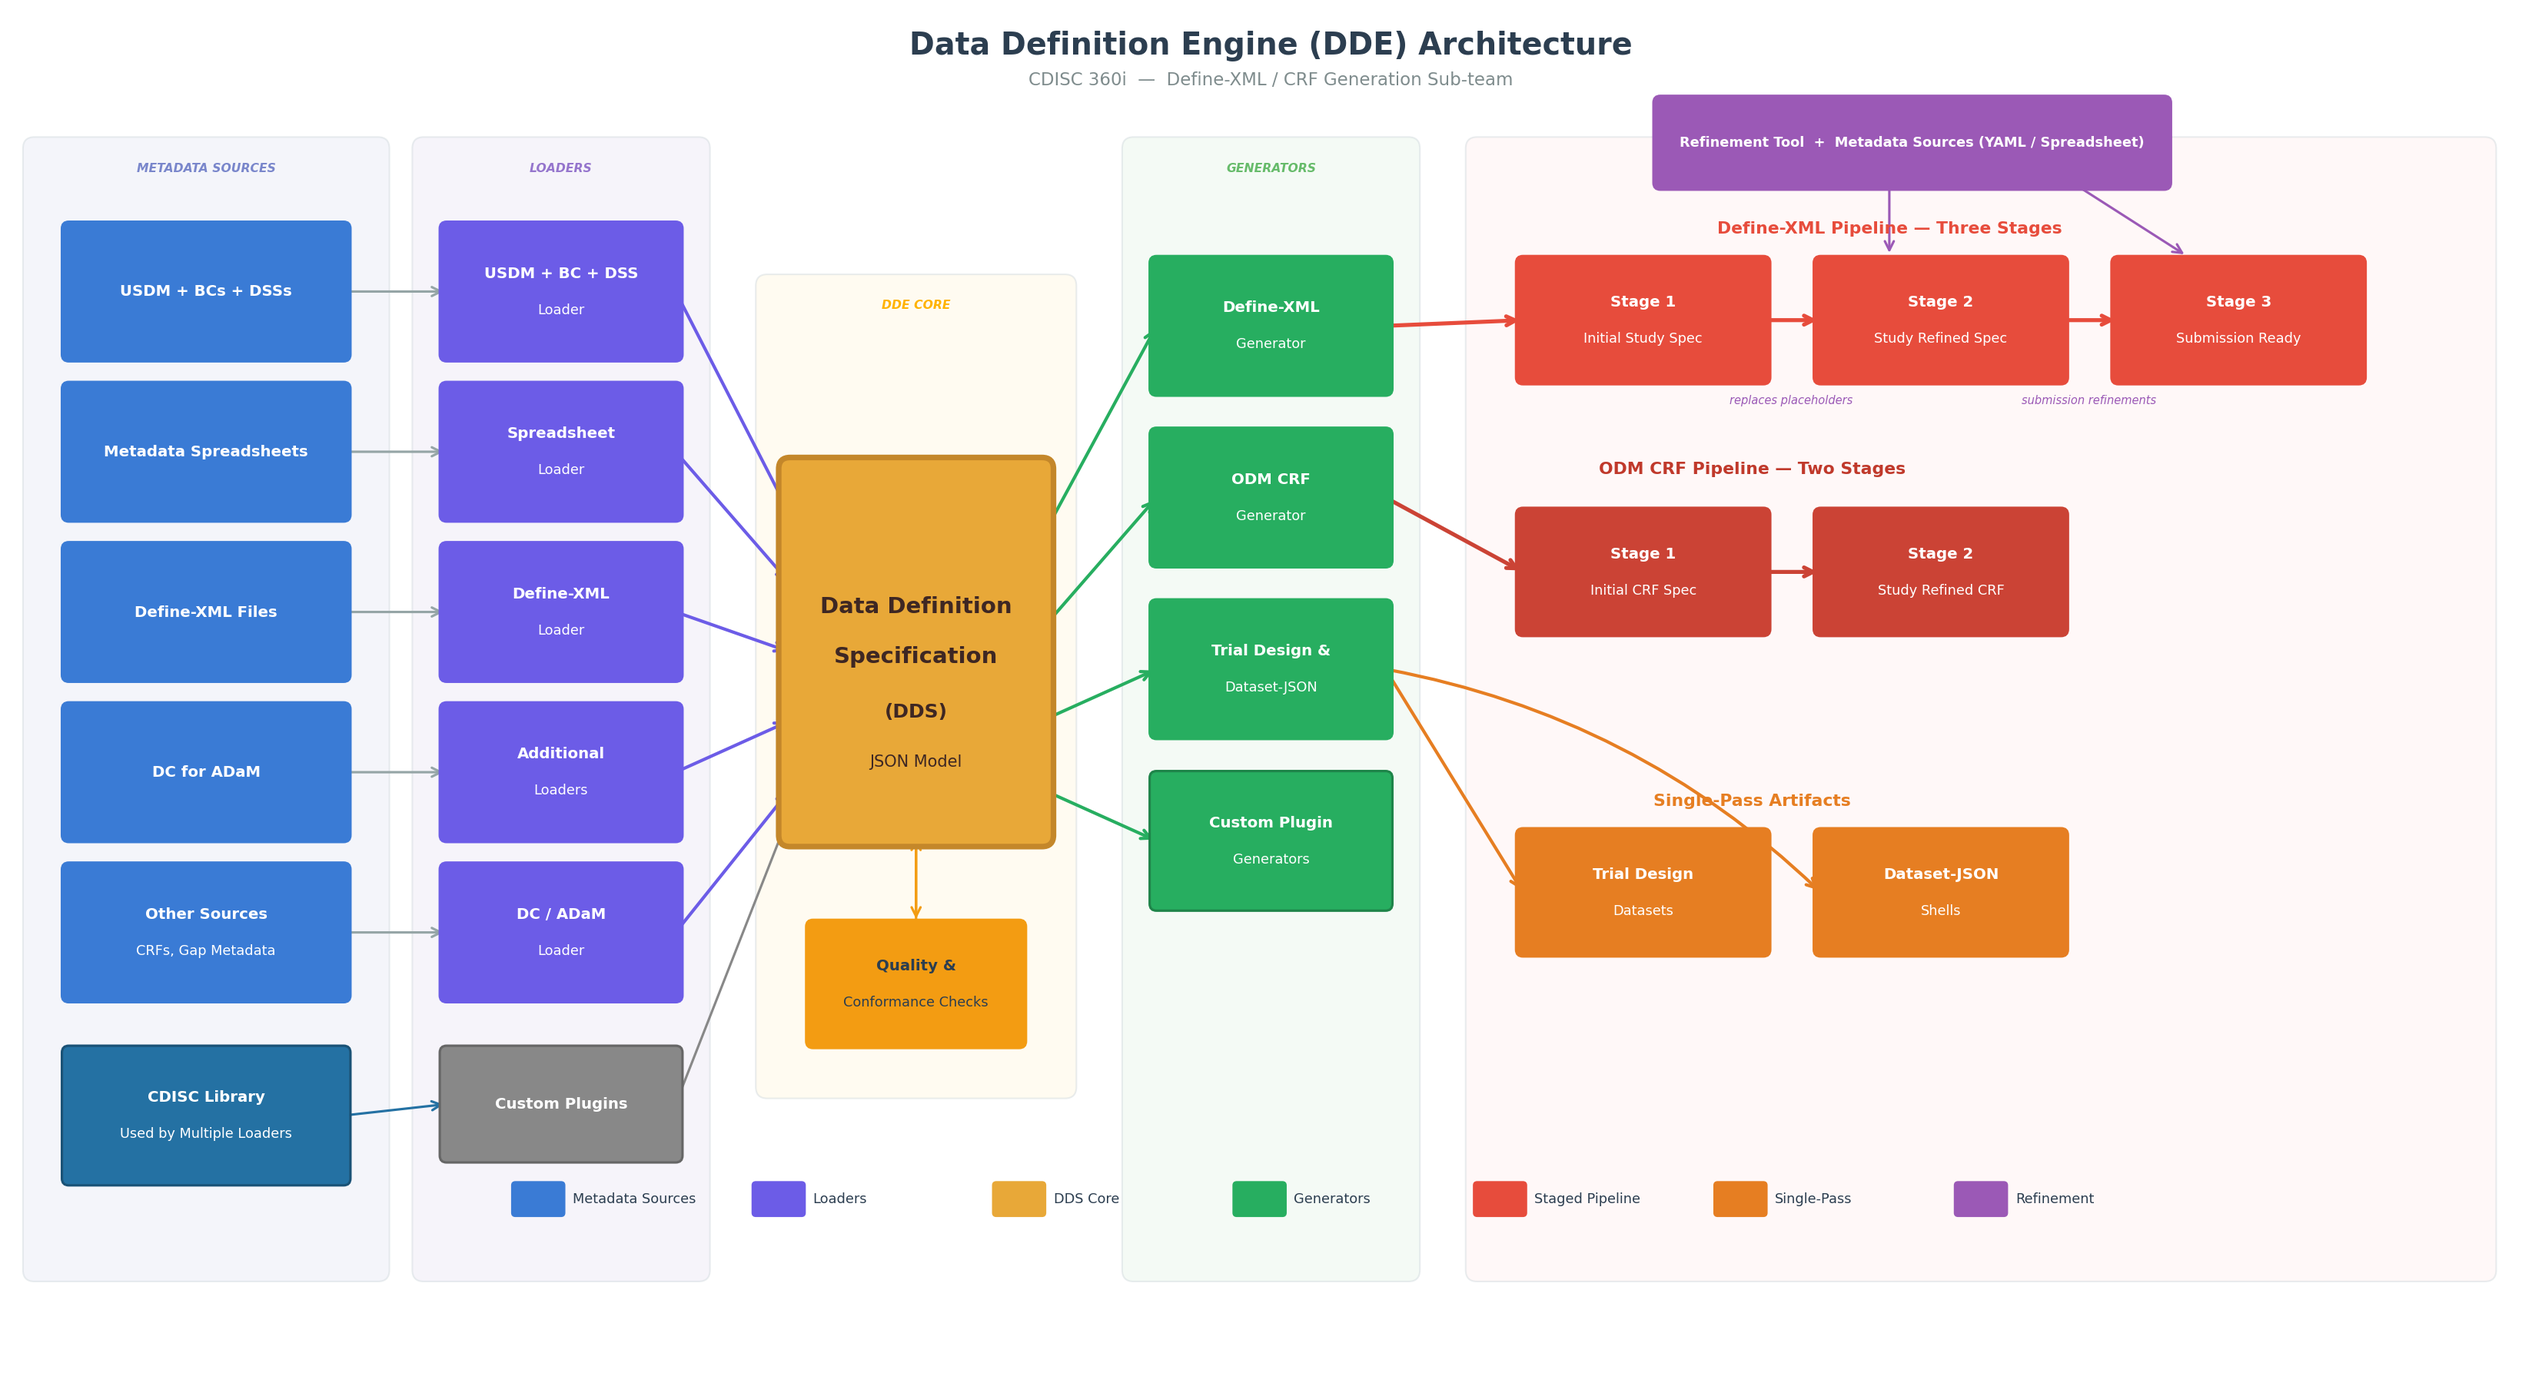
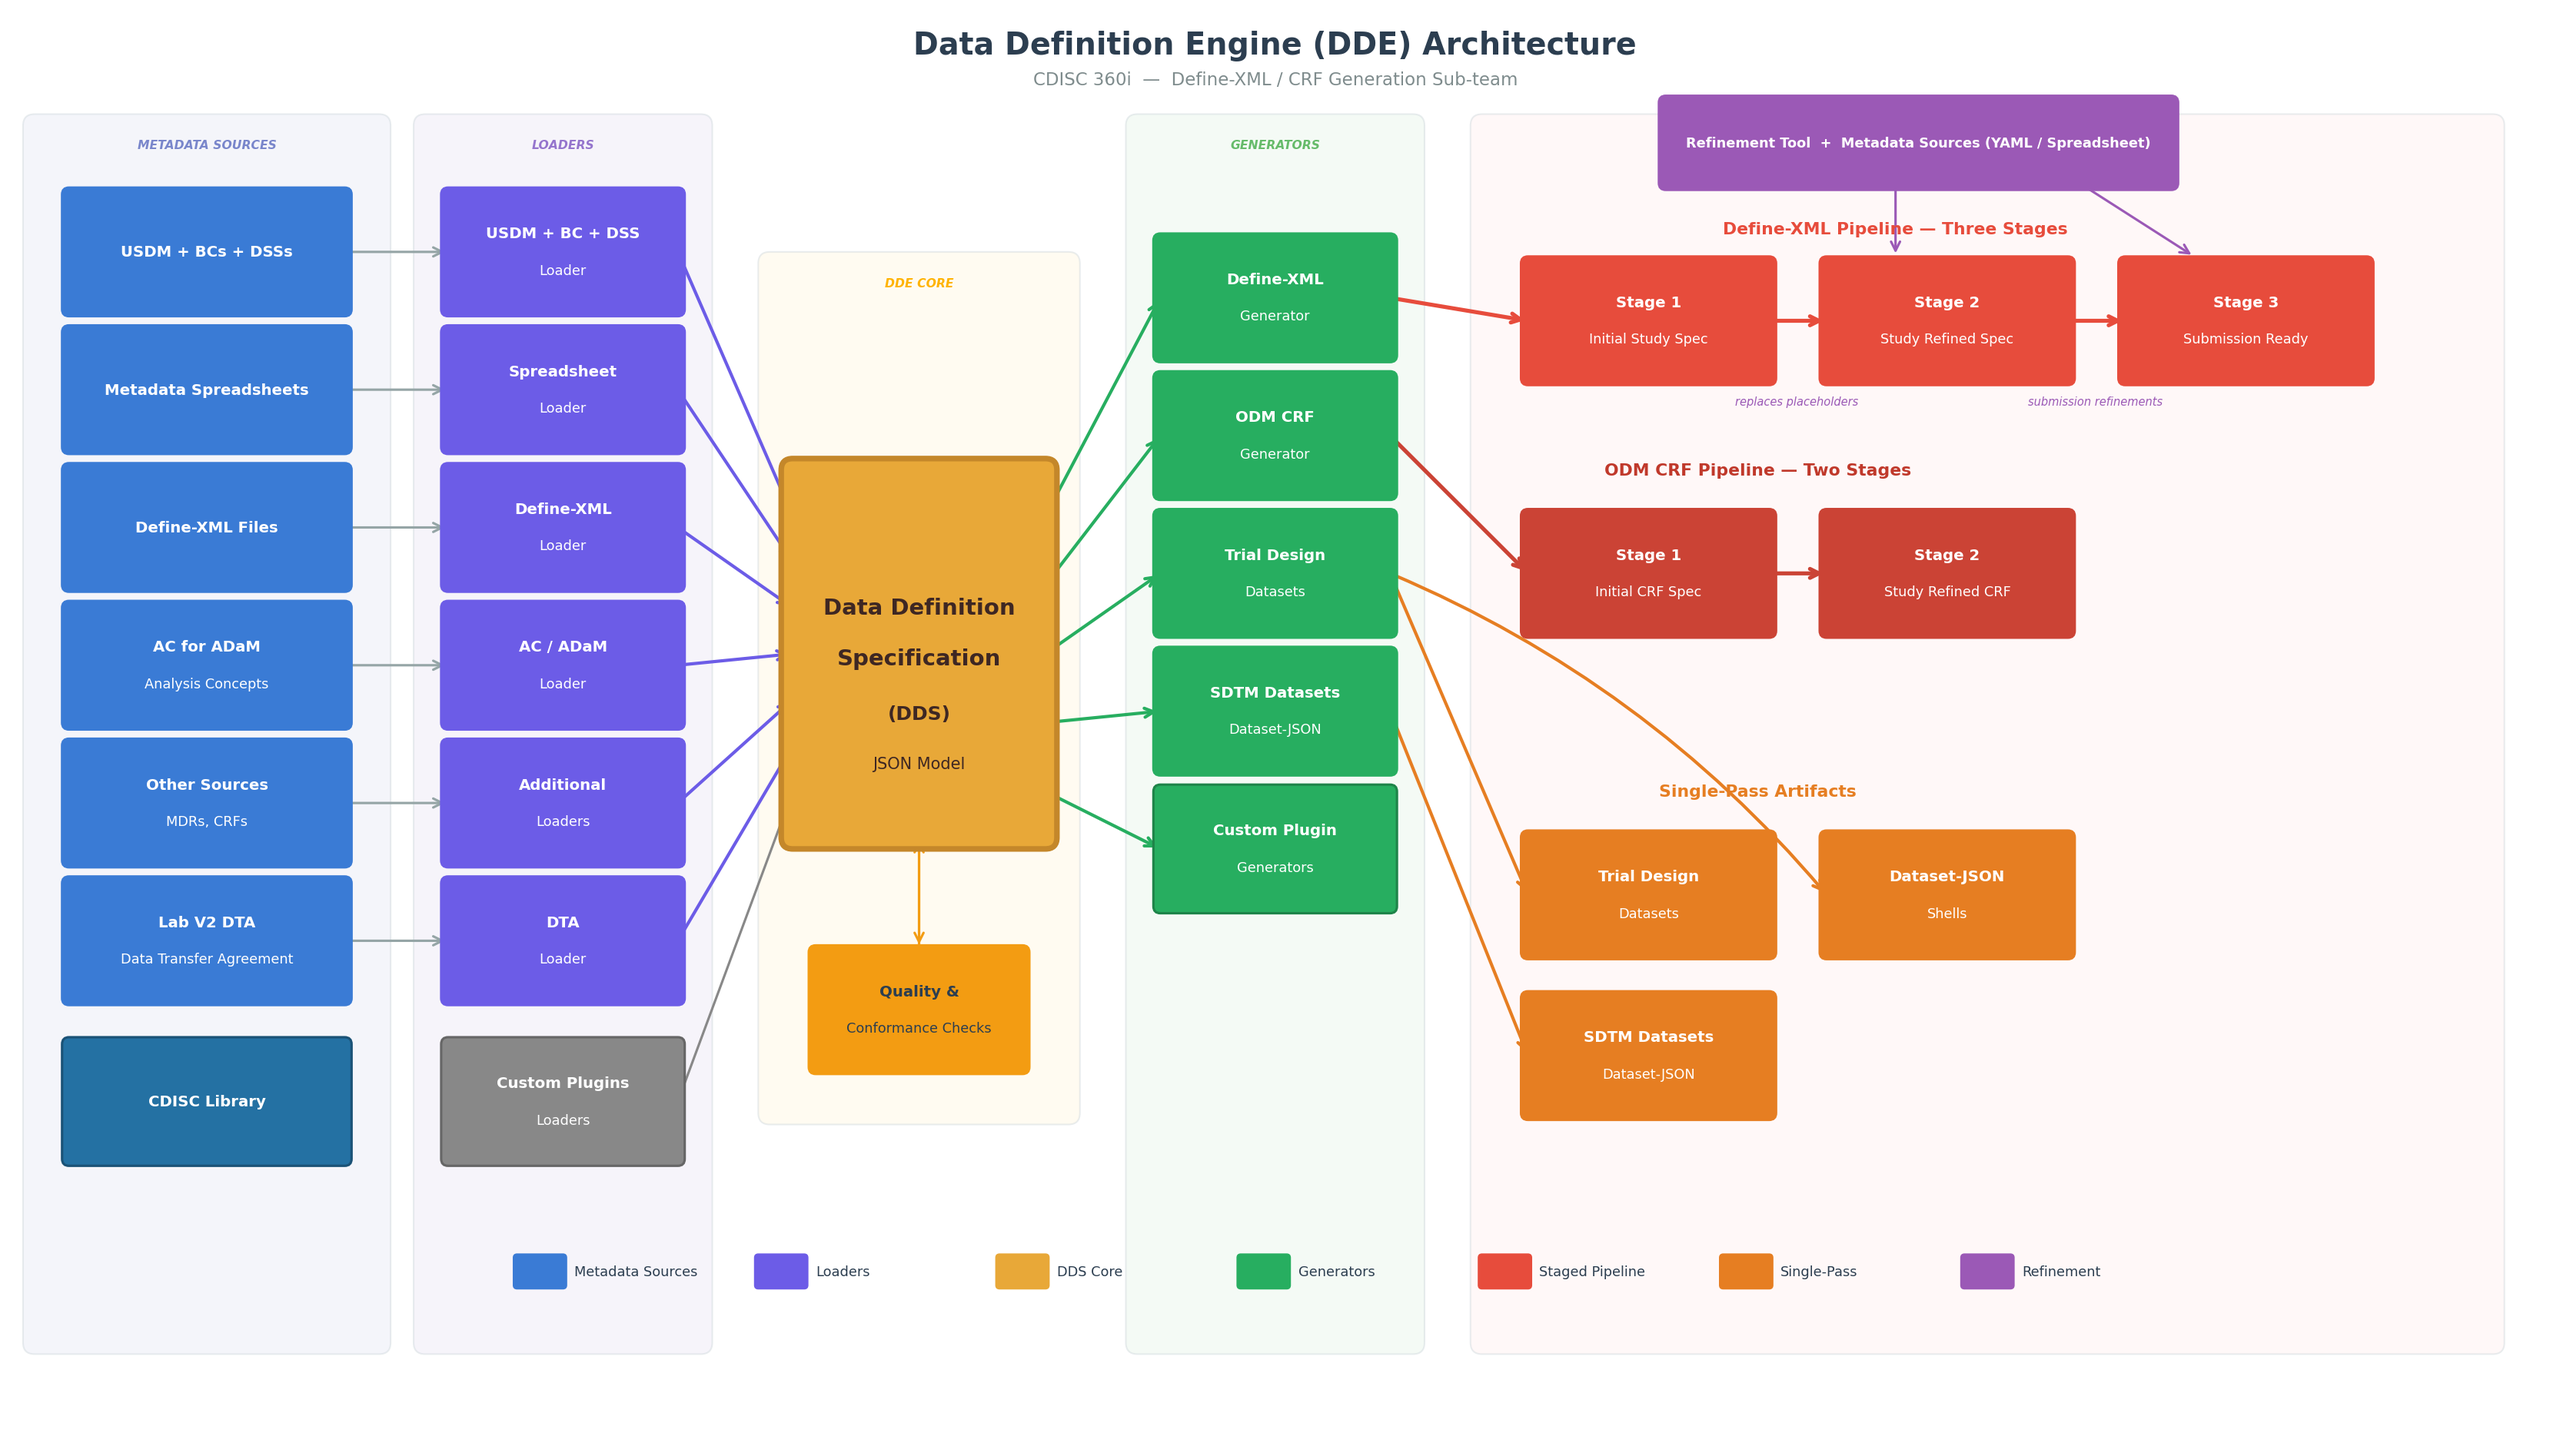
updates interchange slides

diff --git a/documents/presentations/2026-eu-interchange-define-xml-automation.md b/documents/presentations/2026-eu-interchange-define-xml-automation.md
@@ -7,27 +7,54 @@
 2. ODM-based CRF generation
 3. Dataset Shell generation
 4. Trial Design datasets generation
-5. Generating SDTM datasets from DTAs
+5. Generating SDTM datasets from Lab DTAs
+6. Test a new draft model: Data Definition Specification (DDS)
 
-This presentation focuses on SDTM Define-XML generation, but most of the principles covered here apply to our other deliverables
+This presentation focuses on SDTM Define-XML generation.
+
+Speaker Notes:
+While this presentation focuses on SDTM Define-XML generation, most of the principles covered here apply to our other 
+deliverables. Instead of giving an overview of the 360i program or even an overview of our team's work, I will go into 
+a bit more details on the SDTM Define-XML generation deliverable since we're further along on this one and it happens 
+to be the feature that I've worked the most on.
 
 ---
 
-## What Are We Trying to Accomplish
+## What Are We Trying to Accomplish?
 1. Create a solution that maximizes automation and minimizes manually created metadata to generate Define-XML
 2. Support generating Define-XML from the study design; this uses USDM -> Biomedical Concepts -> SDTM Dataset Specializations
-3. Support using multiple sources of metadata to generate the Define-XML, such as existing metadata spreadsheets
+3. Support using multiple sources of metadata to generate the Define-XML, such as existing metadata spreadsheets or MDRs
 4. Create a new Data Definition Specification model to support metadata-driven automation
 5. Identify and resolve metadata/standards gaps impeding automation
+
+Speaker Notes:
+This slide focuses on SDTM Define-XML generation, as noted previously. Our main focus is on creating a new way of 
+automating Define-XML generation using USDM + BCs + DSSs. We'll use this same approach for ODM CRF generation,
+but will use CRF Specializations instead of SDTM DSSs.
+
+This is an innovative project. We're working towards making a leap forward, and to do this we've had to learn several 
+new standards and models. So, this project has, at times, been an exploratory one where we have had to learn new
+standards and models without any formal training. We're doing new things, and this calls for a pioneering spirit and
+a willingness to deal with content and processes that are rough and incomplete.
+
+Even supporting today's state-of-the-art metadata sources, such as existing metadata spreadsheets and MDRs requires
+innovation because we are loading this content into the new DDS model.
+
+Identifying gaps in the standards and pioneering new ways of working are what this project is all about.
 
 ---
 
 ## Why This Matters
 1. Bridging future methods of generating Define-XML with current ways of working
-2. Open-source where ongoing development and maintenance is performed by a team of experts
-3. Open-source means the application can be used without paying a license fee
-4. Higher quality Define-XMLs generated more efficiently
-5. Realizing the benefits of your investment in standards via metadata-driven automation
+2. Open-source where a team of experts performs ongoing development and maintenance
+3. Higher quality Define-XMLs generated more efficiently
+4. Realizing the benefits of your investment in standards via metadata-driven automation
+
+Speaker Notes:
+We are demonstrating new ways of generating study artifacts, like Define-XML, starting from the study design metadata.
+We seek to use this method to maximize automation. This makes it easier to generate a Define-XML at the very beginning
+of a study so that it can be used as a specification. It also makes it easier to re-generate the Define-XML 
+specification when the study design is ammended.
 
 ---
 
@@ -41,6 +68,14 @@ This presentation focuses on SDTM Define-XML generation, but most of the princip
 4. Automation Opportunity
 	- Generating Define-XML from a consistent metadata backbone reduces errors, streamlines updates, and scales across projects.
 
+Speaker Notes:
+I think most of us would agree that the current process is inefficient and error-prone. It's too manual. Define-XML
+generation often occurs at the end of the study and is not available as a specification. With the availability of new 
+standards and models, we believe we can increase the automation and quality of the Define-XML generation process. 
+Every 1.32 studies go through protocol amendments. Our existing manual processes are not only error-prone, but 
+unsustainable and expensive. Driving Define-XML generation automation from the study design should provide major quality
+and efficiency benefits.
+
 ---
 
 ## The Project: The Data Definition Engine (DDE)
@@ -48,10 +83,49 @@ This presentation focuses on SDTM Define-XML generation, but most of the princip
 
 1. Metadata Sources
 2. Loaders
-3. The Data Definition Specification model
+3. The Data Definition Specification (DDS) model
 4. Generators
 5. Study Artifacts
 6. A Refinement Pipeline
+
+Speaker Notes:
+This slide represents the key ideas I want to highlight in this presentation. It shows the Data Definition Engine
+(DDE) architecture and highlights the components needed to achieve our goals.
+
+TODO: Expand on each part of the architecture to understand the role each component plays in the process. 
+
+---
+
+## DDE: Generating Define-XML from the Study Design
+![dde_define_xml_slide.png](dde_define_xml_slide.png)
+
+1. Metadata Sources
+   - USDM + BCs + DSSs
+   - CDISC Library
+2. Loaders
+   - USDM + BCs + DSSs
+3. DDS
+   - JSON model
+4. Generators
+   - Define-XML
+5. A Refinement Pipeline
+   - Define-XML with PLACEHOLDERS
+   - Study level refinement of Define-XML
+
+Speaker Notes:
+This slides focuses on one of our main 360i deliverables: generating Define-XML from a USDM-based study design. The
+Define-XML generated can be used as an initial specification for the study. Since it's generated from the study design,
+it can be be generated in the very beginning of the study. It can be updated as the study design is amended. These are
+some process benefits that come along with the improvements in automation.
+
+This approach retrieves the Biomedical Concepts from the USDM schedule of activities. It then uses the CDISC Library API
+to look up the DSSs for each BC. Using this information, we are able to populate much of the Define-XML metadata,
+including bits that are considered more challenging, like Value Level Metadata. However, there are quite a few gaps
+in the metadata needed to full generate a conformant Define-XML. These tend to be basic, study-level content like 
+KeySeuqence (which variables are keys), Length, whether a variable is mandatory or not, and so on. During the initial
+Define-XML generation, we use placeholders for these metadata items. Then, in the refinement pipeline those placeholders
+are with study-level metadata. The final step in that pipeline is performed at the end of the study to make any changes
+or additions needed to make this submission-ready.
 
 ---
 
@@ -60,12 +134,32 @@ This presentation focuses on SDTM Define-XML generation, but most of the princip
 2. Add new generators to create new study artifacts or variations of the supported artifacts
 3. New approaches to the refinement pipeline
 
+Speaker Notes:
+The plug-in architecture allows implementers to add new loaders and generators to support new metadata sources and new
+study artifacts. For example, if your organization uses an MDR with an API, a loader could be created to
+extract metadata to load into the DDS. The generators work the same, regardless of how the content is loaded int the
+DDS. Similarly, implementers can add new generators or extend the existing ones to create new study artifacts or to
+add user-specific variations to existing ones. So, this adds flexibility to extend the DDE solution to support new
+metadata sources and new study artifacts.
+
 ---
 
 ## Timeframes for the Solution Targets
 1. Current State: current ways of generating Define-XML: e.g., metadata spreadsheets
 2. New State: generating define.xml using USDM + BCs + DSSs
 3. Future State: future standards like a new, JSON-based version of define, DTAs, etc.
+
+Speaker Notes:
+As noted previously, our main target is the New State: using USDM + BCs + DSSs to generate Define-XML and other study
+artifacts. Given that most all sponsors have not yet adopted the new standards like USDM, and they have other sources of
+study metadata that they currently use to generate their Define-XMLs. We would like to support as many common sources of
+existing metadata as possible. 
+
+For example, we would like to support commonly used metadata spreadsheets. This allows organizations to start using the
+DDE right away, and they can move to the new standards when they are ready. As they are implementing major new changes, 
+such as USDM, they will also likely continue to have the need to support their current processes until they've
+completed the transition. It's also true that there are a lot of existing metadata spreadsheets, and loading this 
+content helps us test the DDS model as well as the loaders.
 
 ---
 
@@ -74,6 +168,13 @@ This presentation focuses on SDTM Define-XML generation, but most of the princip
 2. Examples include keySequence, Length, ...
 3. To address the missing metadata, we used placeholders in the first Define-XML generated
 4. Gaps may drive updates to standards
+
+Speaker Notes:
+Before beginning the project we understood that implementing end-to-end automation using new or existing standards
+would identify gaps or misalignments in the available standards metadata. So, in this context, gaps and misalignments
+aren't bugs, they're features. We expected to find gaps, and we've found and documented many of them.
+
+TODO: add a better list of metadata gap examples.
 
 ---
 
@@ -90,6 +191,20 @@ This presentation focuses on SDTM Define-XML generation, but most of the princip
 4. Extensibility and Feedback Loop
 	- Designed for extensibility and interoperability, the model reveals standards gaps, fostering continuous improvement.
   
+Speaker Notes:
+The Data Definition Specification (DDS) is a new draft model that we will publish as a standard after we complete our 
+360i work. We are using the DDS in our work as a new model is needed to address what we need to support end-to-end 
+automation. Define-XML was never intended to drive end-to-end automation, though it has been used to do so at times.
+
+For example, the DDS allows us to define both the data supply and demand, sometimes referred to as the source and 
+target datasets. It allows us to define derivation methods in a more complete manner to support automation 
+and not just provide documentation of the code used. It also does a better job of representing semantics and 
+relationships. DDS and Define-XML were defined with different primary goals in mind.
+
+In this presentation, I do not have time to get into the details of the DDS, but we are using it in our project and will 
+be working towards publishing it as a standard, so there will be opportunities to learn more about it or even to get 
+involved in its development.
+
 ---
 
 ## Future Work
@@ -98,6 +213,13 @@ This presentation focuses on SDTM Define-XML generation, but most of the princip
 3. DTA to SDTM transformations
 4. Plug In Architecture
 5. Initial release targeted by EOY
+
+Speaker Notes:
+We are working towards refining and expanding the current work-in-progress to create a usable solution. To that end, we 
+plan to publish a Release Candidate by the end of the year. This will be available as a release in GitHub. We aim for 
+this to be a usable solution that's available to anyone to use without any licensing fees or restrictions. Similarly, 
+this project is open to contributors, and we hope others will make contributions to the project so that it becomes a 
+more robust solution for everyone, and there aren't just a few of us supporting it.
 
 ---
 
@@ -114,7 +236,9 @@ This presentation focuses on SDTM Define-XML generation, but most of the princip
 	- Automation efforts reveal gaps in CDISC standards, guiding standards evolution and better implementation.
 6. Open-Source Adoption
 	- Open-source solutions promote interoperability, accelerate learning, and reduce duplicated automation efforts across organizations.
-  
+
+Speaker Notes:
+
 ---
 
 ## Questions?
